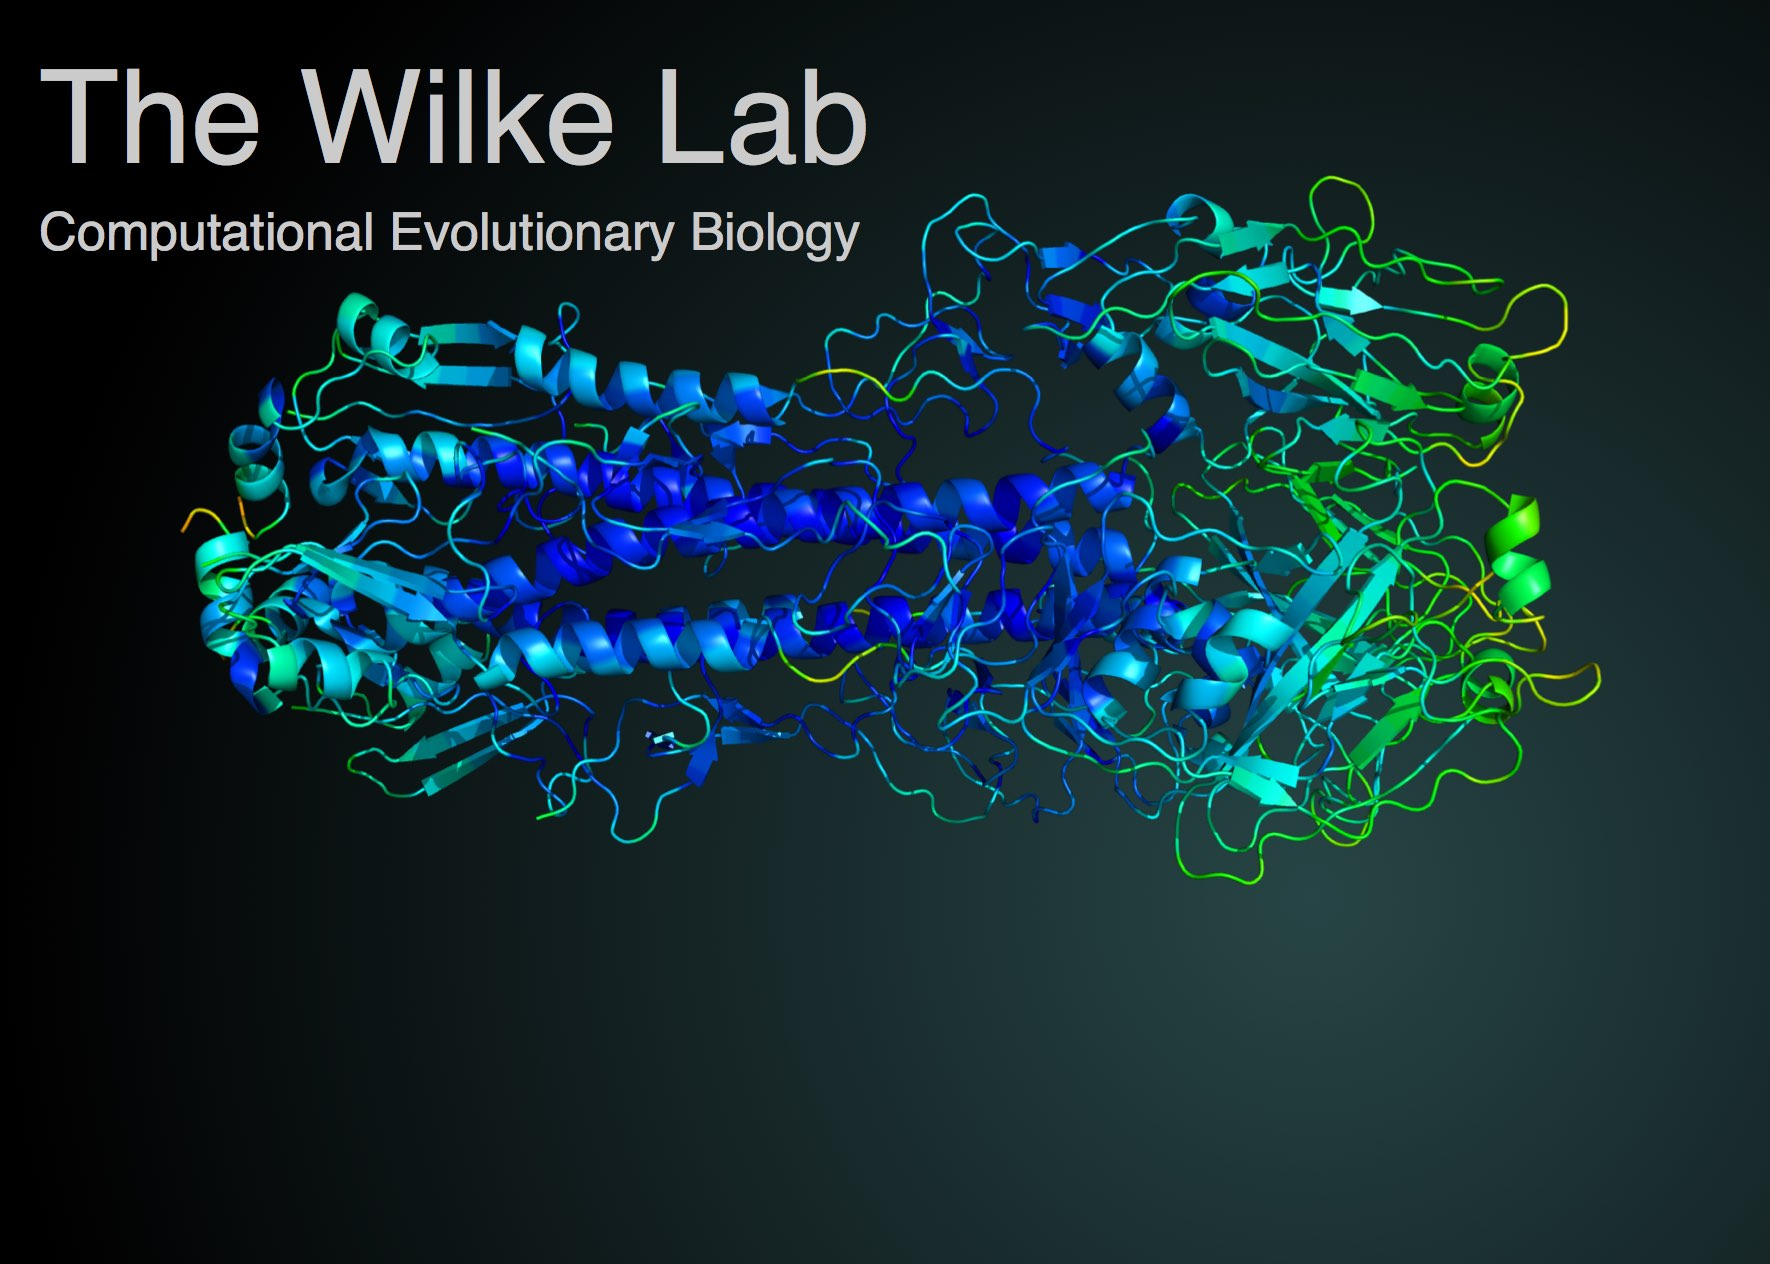
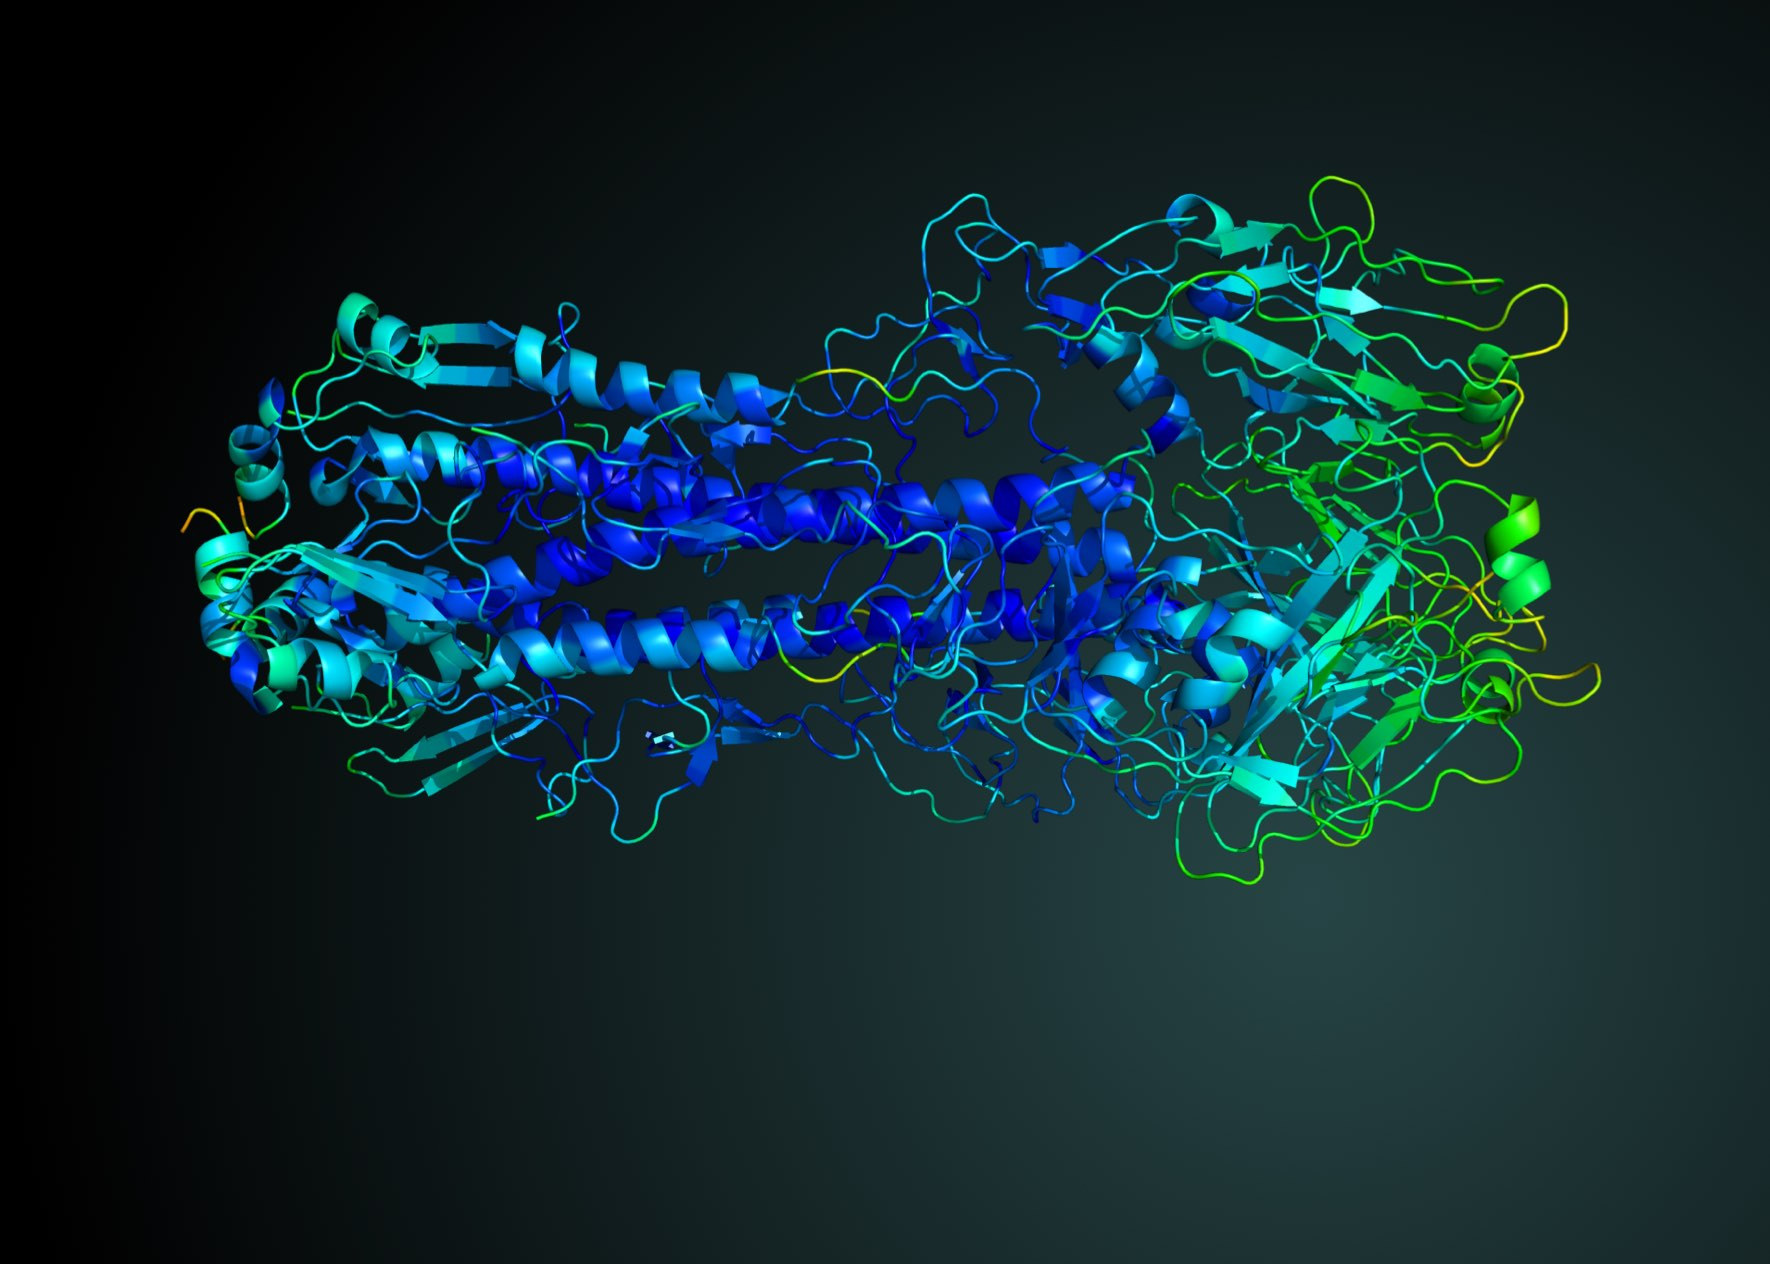
Fix headline image.

Changed region(s): [[0.0311, 0.0309, 0.4972, 0.216]]

diff --git a/_sass/_layout.scss b/_sass/_layout.scss
@@ -13,14 +13,19 @@ body, html {
  * Page cover
  */
 #cover { 
-    background: url(../img/WilkeLabCover.jpg) no-repeat top left; 
+    background: url(../img/WilkeLabCover.jpg) no-repeat top center; 
     -webkit-background-size: cover;
     -moz-background-size: cover;
     -o-background-size: cover;
     background-size: cover;
 }
 
-#empty {
+#headline {
+    background: url(../img/WilkeLabHeadline.png) no-repeat top left; 
+    -webkit-background-size: 100%;
+    -moz-background-size: 100%;
+    -o-background-size: 100%;
+    background-size: 100%;
     height: 100%;
 }
 

diff --git a/_layouts/cover.html b/_layouts/cover.html
@@ -5,7 +5,7 @@
    
   <body id="cover">
 
-    <div id="empty">
+    <div id="headline">
     </div>
     
     {% include header.html %}
